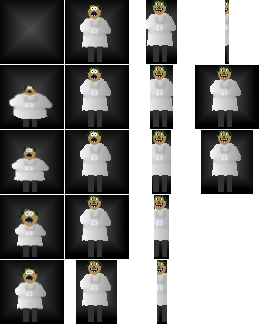
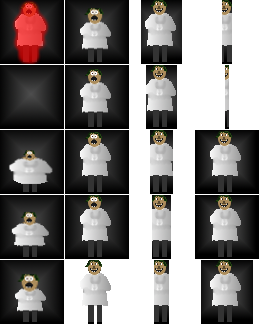
CHANGED: Boss Arena geändert.

diff --git a/JackDanger/games/JackTheRunnerFIXXIE/game.js b/JackDanger/games/JackTheRunnerFIXXIE/game.js
@@ -50,6 +50,7 @@ JackDanger.JackTheRunnerFIXXIE.prototype.preload = function() {
     this.load.atlas("wobby");
     this.load.atlas("slimeexplo");
     this.load.atlas("prof");
+    this.load.atlas("profblase");
     this.load.tilemap('map',null,null,Phaser.Tilemap.TILED_JSON);
     this.load.image("tileset");
     this.load.image("datatiles");
@@ -279,6 +280,8 @@ JackDanger.JackTheRunnerFIXXIE.prototype.addBoss = function(x,y) {
     boss.phase=0;
     boss.timer=0;
     boss.zanz=0;//Anzahl Zombies die in einer Runde gespawnt wurden
+    boss.pipes=this.getMapObjects(this.map,"slimepipe");
+    boss.profspawns=this.getMapObjects(this.map,"profspawn");
     boss.updateObj=function(dt,state){
         switch(this.phase){
             case 0://Warte darauf dass der Spieler die Bossarena betritt
@@ -292,22 +295,11 @@ JackDanger.JackTheRunnerFIXXIE.prototype.addBoss = function(x,y) {
                 }
             break;
             case 1://Prof spawnen
-                
-                
-            
+
                     state.killAllZombies();
-                    var pipename;
-                    var profspawnname;
-                    if(Math.random()<0.5)
-                    {
-                        profspawnname="profspawn1";
-                    }else{
-                        profspawnname="profspawn2";
-                    }
-                    
-                    this.profspawnobj=state.getMapObjects(state.map,profspawnname)[0];
+                    this.profspawnobj=this.profspawns[Math.floor(Math.random()*this.profspawns.length)];
                     state.addProf(this.profspawnobj.x,this.profspawnobj.y-32);
-                    this.timer=4;
+                    this.timer=6;
                     this.phase=2;
                 
             break;
@@ -320,16 +312,9 @@ JackDanger.JackTheRunnerFIXXIE.prototype.addBoss = function(x,y) {
             case 3://Zombie spawnen
             if(state.bossHealth>0)
                 {
-                var pipename;
-            if(Math.random()<0.5)
-                {
-                    pipename="slimepipe1";
-                }else{
-                    pipename="slimepipe2";
-                }
-                this.pipeobj=state.getMapObjects(state.map,pipename)[0];
+                this.pipeobj=this.pipes[Math.floor(Math.random()*this.pipes.length)];
                 if(state.bossHealth>10){
-                    this.timer=1;
+                    this.timer=1.5;
                     state.addZombie(this.pipeobj.x+32,this.pipeobj.y);
                 }
                 else{
@@ -409,7 +394,7 @@ JackDanger.JackTheRunnerFIXXIE.prototype.addZombie = function(x,y) {
             
             this.body.velocity.x=0;
             var playerDistX=Math.abs(state.player.x-this.x);
-            if(this.x-state.player.x<400 && !this.firstfall)
+            if(this.x-state.player.x<450 && !this.firstfall)
             {
                 if(isGround&&!this.prevGround)
             {
@@ -510,7 +495,7 @@ JackDanger.JackTheRunnerFIXXIE.prototype.addWobby = function(x,y) {
             
             this.body.velocity.x=0;
             var playerDistX=Math.abs(state.player.x-this.x);
-            if(this.x-state.player.x<400 && !this.firstfall)
+            if(this.x-state.player.x<450 && !this.firstfall)
             {
                 if(isGround&&!this.prevGround)
             {
